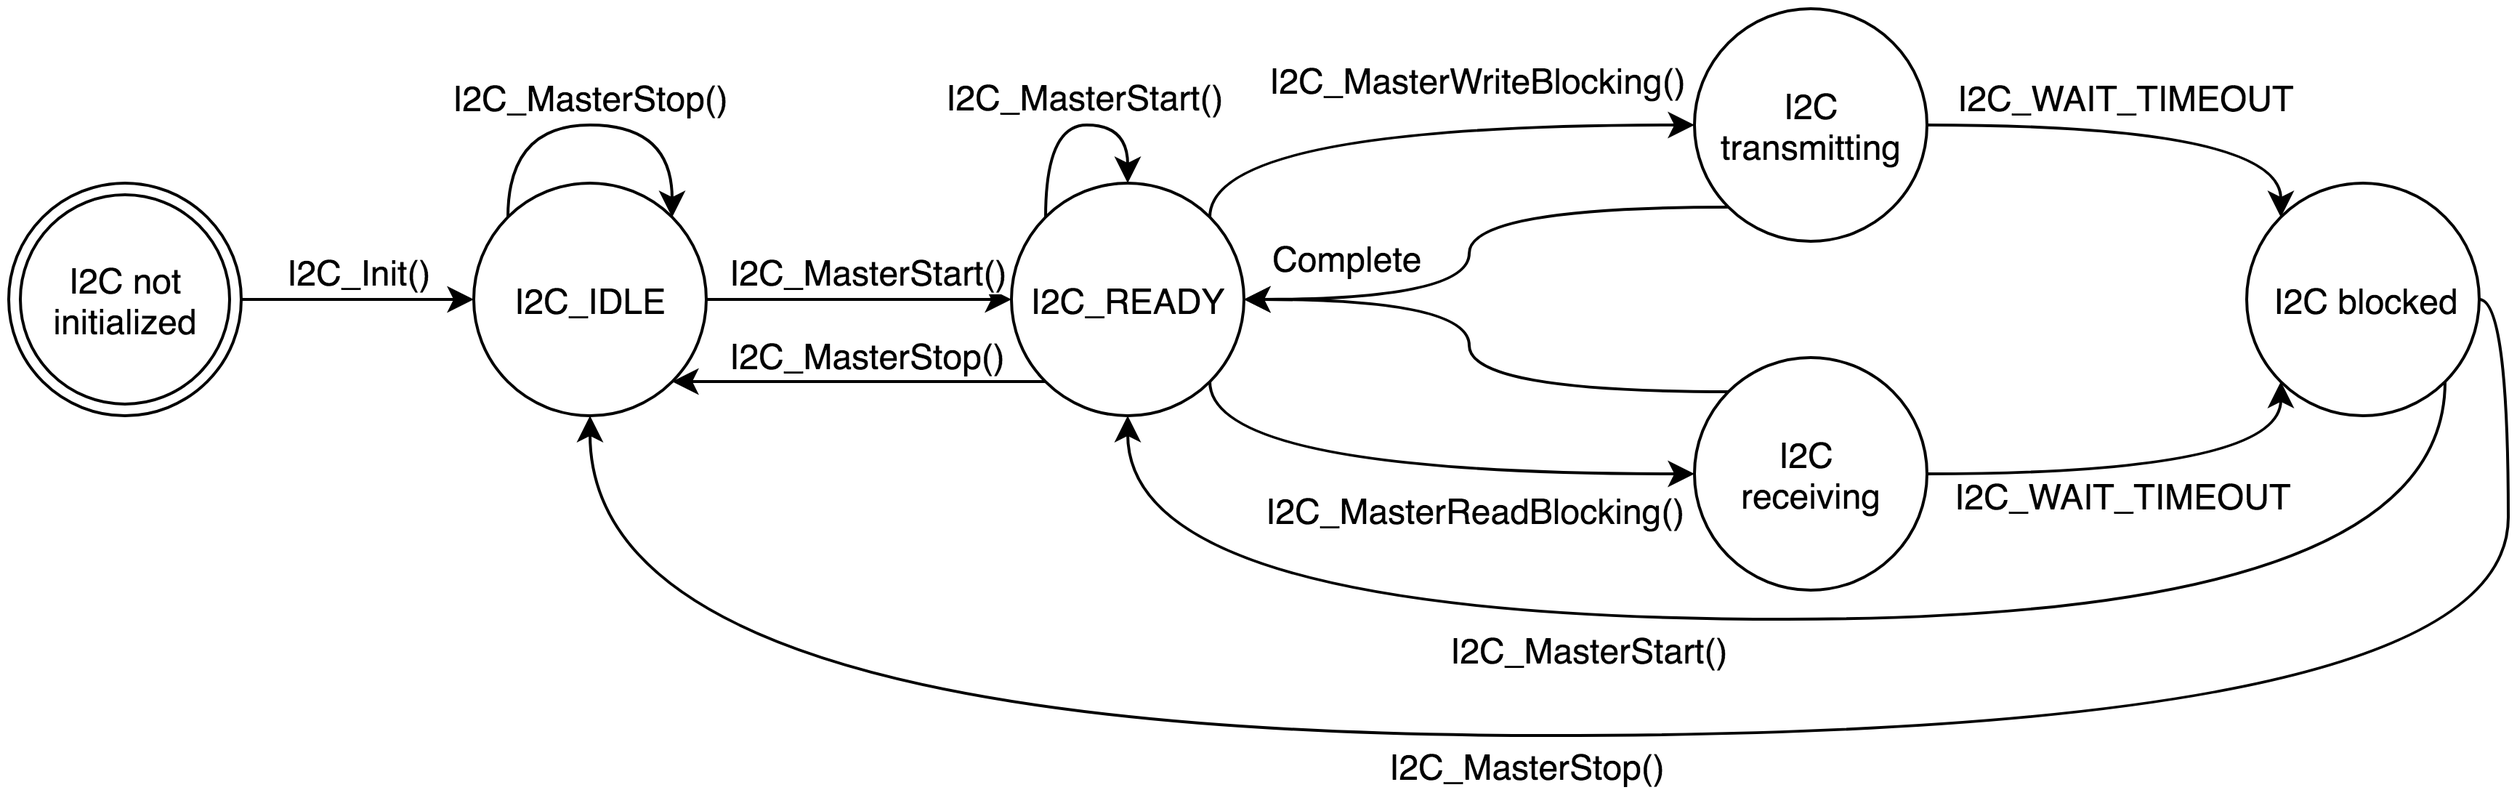
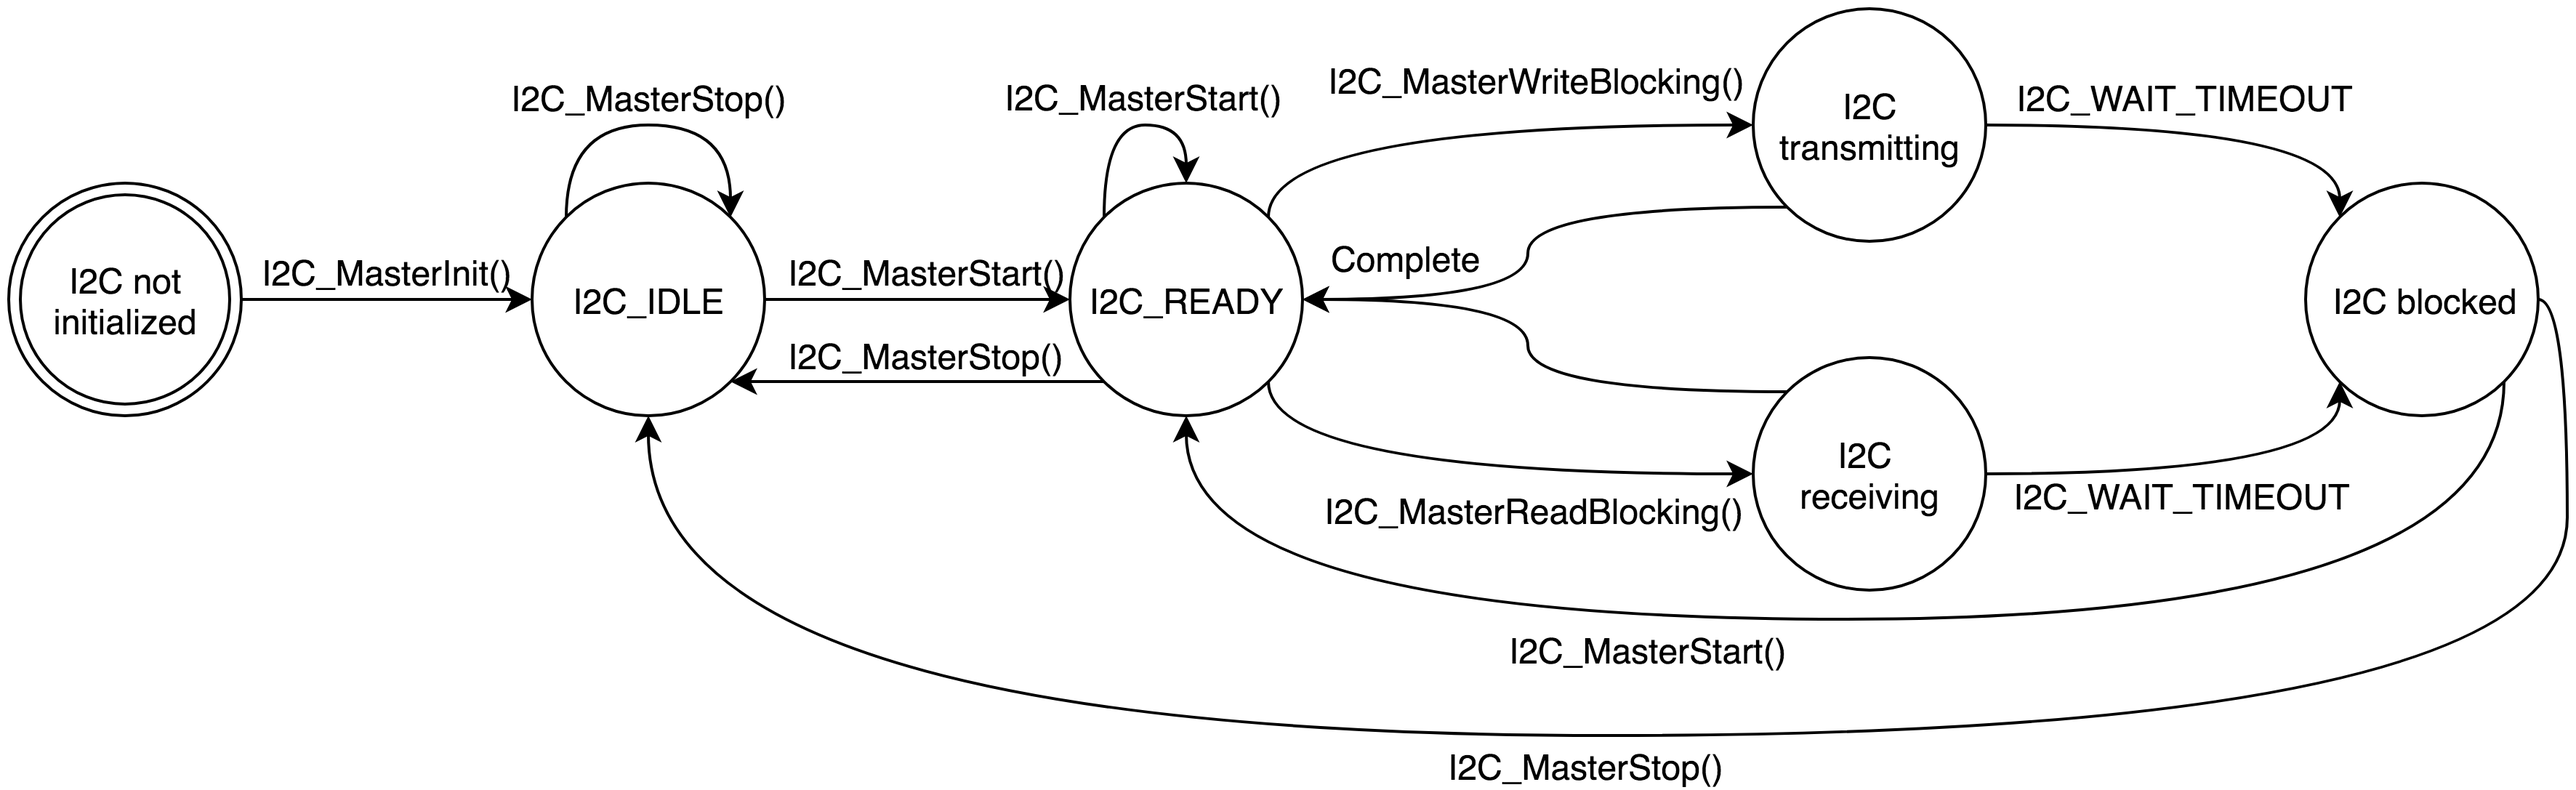
Masser af ændringer :)

diff --git a/section/afs_kommunikation.tex b/section/afs_kommunikation.tex
@@ -1,11 +1,11 @@
 \section{Kommunikationsprotokoller}
 
-I dette afsnit vil de implementerede kommunikationsprotokoller blive diskuteret. Der bliver redegjort for virkemåde og årsag til implementation. 
+I dette afsnit vil de implementerede kommunikationsprotokoller blive diskuteret. Der bliver redegjort for virkemåde og årsag til implementation. Disse protokoller er for det meste implementeret på begge systemer. 
 
 \subsection{Inter-Integrated Circuit (I2C)}
-Kredsen, $BQ76920$, som bliver brugt i den integrerede version af BMS'en, kommunikerer med microcontrolleren vha. I2C. Her sendes kommandoer til IC'en som bestemmer dens instillinger, og for f.eks. at læse cellespændingerne, sendes registernummeret til IC'en, og den svarer dermed med de relevante data. Disse data skal dog så behandles for at kunne bruges. \\
+Kredsen, $BQ76920$, som bliver brugt i den integrerede version af BMS'en, kommunikerer med microcontrolleren vha. I2C. Her sendes kommandoer til IC'en som bestemmer dens instillinger, og for at læse f.eks. cellespændingerne, sendes registernummeret til IC'en, og den svarer dermed med de relevante data. Disse data skal dog så behandles for at kunne bruges. \\
 
-Displayet som viser BMS'ens status, er også forbundet via I2C. Her sendes kommandoer til display, hver gang noget skal ændres. Displayet indeholder sit egen character bibliotek. \sbf{mere}
+%Displayet som viser BMS'ens status, er også forbundet via I2C. Her sendes kommandoer til display, hver %gang noget skal ændres. Displayet indeholder sit egen character bibliotek. \sbf{mere}
 
 \begin{figure}[h]
 	\centering
@@ -18,18 +18,21 @@ På figur \ref{fig:I2C_sm} ses state-machinen over I2C driveren. I2C driveren sk
 
 \verb|I2C_MasterWriteBlocking()| eksekveres når der skal sendes data til slaven. Skulle der ske en fejl på bus'en, vil driveren efter \verb|I2C_WAIT_TIMEOUT| automatisk sende start eller stop kommandoen igen, afhænigt af "fejlkoden". Samme funktionalitet har \verb|I2C_MasterReadBlocking()|, bortset fra at der her først bliver sendt en adresse samt hvilket register der skal læses fra, hvorefter slaven så svarer. \\
 
-\sbf{Ret diagram med Init kommando navn}
-
 \subsection{Universal Asynchronous Receiver/Transmitter (UART)}
-Da kommunikation med en host (computer f.eks.) ønskes, er UART kommunikation den foretrukne metode. Her kan der både læses statusmeddelelser fra computeren, samtidig med at der kan sendes kommandoer til ændring af BMS'ens indstillinger. \\
-
-\sbf{Indsæt screen af terminal med cellespændinger og status}
-
-På host-siden bruges et terminal program (her PuTTY) til at overvåge BMS'en. Cellernes spændinger og aktuelt strømforbrug bliver regelmæssigt overvåget og sendt til host. Her har brugeren også mulighed for at ændre indstillinger såsom low-voltage cutoff og balanceringspunkt.\sbf{Ikke helt sandt endnu...}
+Da kommunikation med en host (computer f.eks.) ønskes, er UART kommunikation den foretrukne metode. Her kan der læses statusmeddelelser fra computeren, såsom overstrøm, overtemperatur samt cellespændinger og strømforbrug.
 
 \begin{figure}[h]
 	\centering
-	\includegraphics[width=12cm]{billeder/UART_sm.png}
+	\includegraphics[width=10cm]{billeder/shell_screen.png}
+	\caption{Screenshot af Terminal forbundet til BMS'en via UART}
+	\label{fig:I2C_sm}
+\end{figure}
+
+På host-siden bruges et terminal program (her "Terminal") til at overvåge BMS'en. Cellernes spændinger og aktuelt strømforbrug og andet bliver regelmæssigt overvåget og sendt til host. Shell'en giver også besked hvis brugeren skal foretage sig noget, som f.eks. et reset ved overstrøm.
+
+\begin{figure}[h]
+	\centering
+	\includegraphics[width=11cm]{billeder/UART_sm.png}
 	\caption{State-machine over UART driveren}
 	\label{fig:UART_sm}
 \end{figure}

diff --git a/section/afs_ADC.tex b/section/afs_ADC.tex
@@ -11,15 +11,21 @@ V_{cell} = ADC(cell) \times 7
 hvor 7 er fundet vha. måling og sammenligning af de to værdier. \\
 
 Til strømmåleren bliver der også brugt analog til digital konvertering. Her bliver der brugt en kanal til hhv. positiv strøm (altså hvad der trækkes ud af systemet), og en kanal til at måle hvor meget der oplades med. 
-\sbf{Måske noget om sucessiv approximering og billeder til det?}
 \sbf{Forklar hvordan det virker med opløsning. altså hvorfor en adc værdi på 1 er lig med 0,5mv, efter gain på 0,68 er ganget på.}
 \sbf{Strømmåler forklaring. samme princip med gain}
 
 \subsection{Integreret BMS}
-I den integrerede kreds sidder der en 14-bit's ADC som tager målinger af både cellespændinger, strømforbrug, thermistorer, og interne temperaturer. Cellespændingerne bliver læst i 2-komplement formatet og i $\milli\volt$. Formlen for at omregne disse værdier er således: 
+I den integrerede kreds sidder der en 14-bit's ADC som tager målinger af både cellespændinger, eventuelle eksterne thermistorer, og interne temperaturer. Cellespændingerne bliver læst i 2-komplement formatet og i $\milli\volt$. Formlen for at omregne disse værdier er således: 
 \begin {equation} 
 V_{cell} = GAIN \times ADC(cell) + OFFSET
 \end {equation}
-Ifølge databladet\footnote{http://www.ti.com/lit/ds/symlink/bq76920.pdf} er $GAIN$ på $380\micro\volt/LSB$ og $OFFSET$ er på $30\milli\volt$. \\
+Ifølge databladet\footnote{\url{http://www.ti.com/lit/ds/symlink/bq76920.pdf} side 22-23} er $GAIN$ på $380\micro\volt/LSB$ og $OFFSET$ er på $30\milli\volt$. \\
 
-Derfor, hvis der læses $0x1F10$ fra registrene $VC1_{HI}$ og $VC1_{LO}$ ($0x0C$ og $0x0D$) giver det en cellespænding på $3052\milli\volt$ eller $3,052\volt$.
+Derfor, hvis der læses $0x1F10$ fra registrene $VC1_{HI}$ og $VC1_{LO}$ ($0x0C$ og $0x0D$) giver det en cellespænding på $3052\milli\volt$ eller $3,052\volt$.\\
+
+For at lave strømmåling er der også en 16-bit's integrerende ADC som måler på shunt modstanden. Værdien udlæses fra IC'en i et 16-bit 2's complement format og da ADC'en måler spændingsfaldet over modstanden, angiver den resultatet i $\micro\volt$. Derfor, for at omregne til strømforbrug ganges der en faktor\footnote{\url{http://www.ti.com/lit/ds/symlink/bq76920.pdf} side 25} på: 
+\begin {equation} 
+I = ADC(Shunt) \times 8.44\micro\volt/LSB
+\end {equation}
+
+Derfor, hvis der læses $0x0C08$ fra registrene $CC_{HI}$ og $CC_{LO}$ ($0x32$ og $0x33$) giver det et aktuelt strømforbrug på $25995*10^{-4}\ampere$ eller $2.5995\ampere$.

diff --git a/section/afs_hovedrutine.tex b/section/afs_hovedrutine.tex
@@ -1,0 +1,17 @@
+\section{Hovedrutine}
+I dette afsnit beskrives programmets hovedloop i grove træk, for at give en forståelse af BMS's funktionalitet. Systemet har en del funktioner som skal gennemføres for at opnå alle ønskede funktionaliteter og beskyttelser. Fælles for både den diskrete og den integrerede version af BMS'en, er at hovedrutinen, eller specifikt, de enkelte funktioners rækkefølge og funktionalitet, hovedsageligt er den samme. 
+
+\begin{figure}[h]
+	\centering
+	\includegraphics[width=15cm]{billeder/main_loop_bms_functions.png}
+	\caption{Simplificeret flowchart over main loop (fokus på BMS funktionerne)}
+	\label{fig:main_loop}
+\end{figure}
+
+Ovenstående ses flowchartet for hovedrutinen. Er
+
+\subsection{Diskret BMS}
+Den diskrete BMS bruger en del ADC'ere og GPIO pins til styring af alle funktionaliteterne, så derfor sættes disse op først. UART'en initialiseres også og en statup besked sendes. I2C initialiseres til display'et, men først til sidst da dette ikke er vigtigt for grund-funktionaliteten. \\
+
+\subsection{Integreret BMS}
+I den integrerede BMS initialiseres systemet med at klargøre alle protokoller, pins og interrupts. Som i den diskrete, sendes en startup-meddelelse til UART porten. Efter initialisation kører de fleste rutiner over I2C. BQ76920 skal initialiseres med de ønskede indstillinger i register 0x01 og 0x02. Register 0x09 skal overskrives med 0x9F under opstart ifølge databladet.\footnote{\url{http://www.ti.com/lit/ds/symlink/bq76920.pdf} side 41} \\

diff --git a/rapport.tex b/rapport.tex
@@ -90,8 +90,9 @@
 \input{section/afs_kommunikation}
 \input{section/afs_ADC}
 \input{section/afs_PWM}
-\input{section/afs_main}
-\input{section/afs_arkitektur}
+\input{section/afs_CTIMER}
+\input{section/temperaturkontrol}
+\input{section/afs_hovedrutine}
 
 %---------- Chapter ----------------
 \input{section/kap_test}

diff --git a/section/afs_CTIMER.tex b/section/afs_CTIMER.tex
@@ -1,0 +1,2 @@
+\section{Timer funktionalitet (CTIMER)}
+For at opnå præcise timingsmuligheder opsættes CTIMER'eren, som er en 32-bit timer. Denne del bliver dog for det meste brugt til at kunne holde øje med om systemet er i live, når der f.eks. ikke er tilsluttet en host. 

diff --git a/section/temperaturkontrol.tex b/section/temperaturkontrol.tex
@@ -1,0 +1,2 @@
+\section{Temperaturkontrol}
+\sbf{temp måler, undgå oscillation, lav hysterese, luk for mosfets, mål videre}
